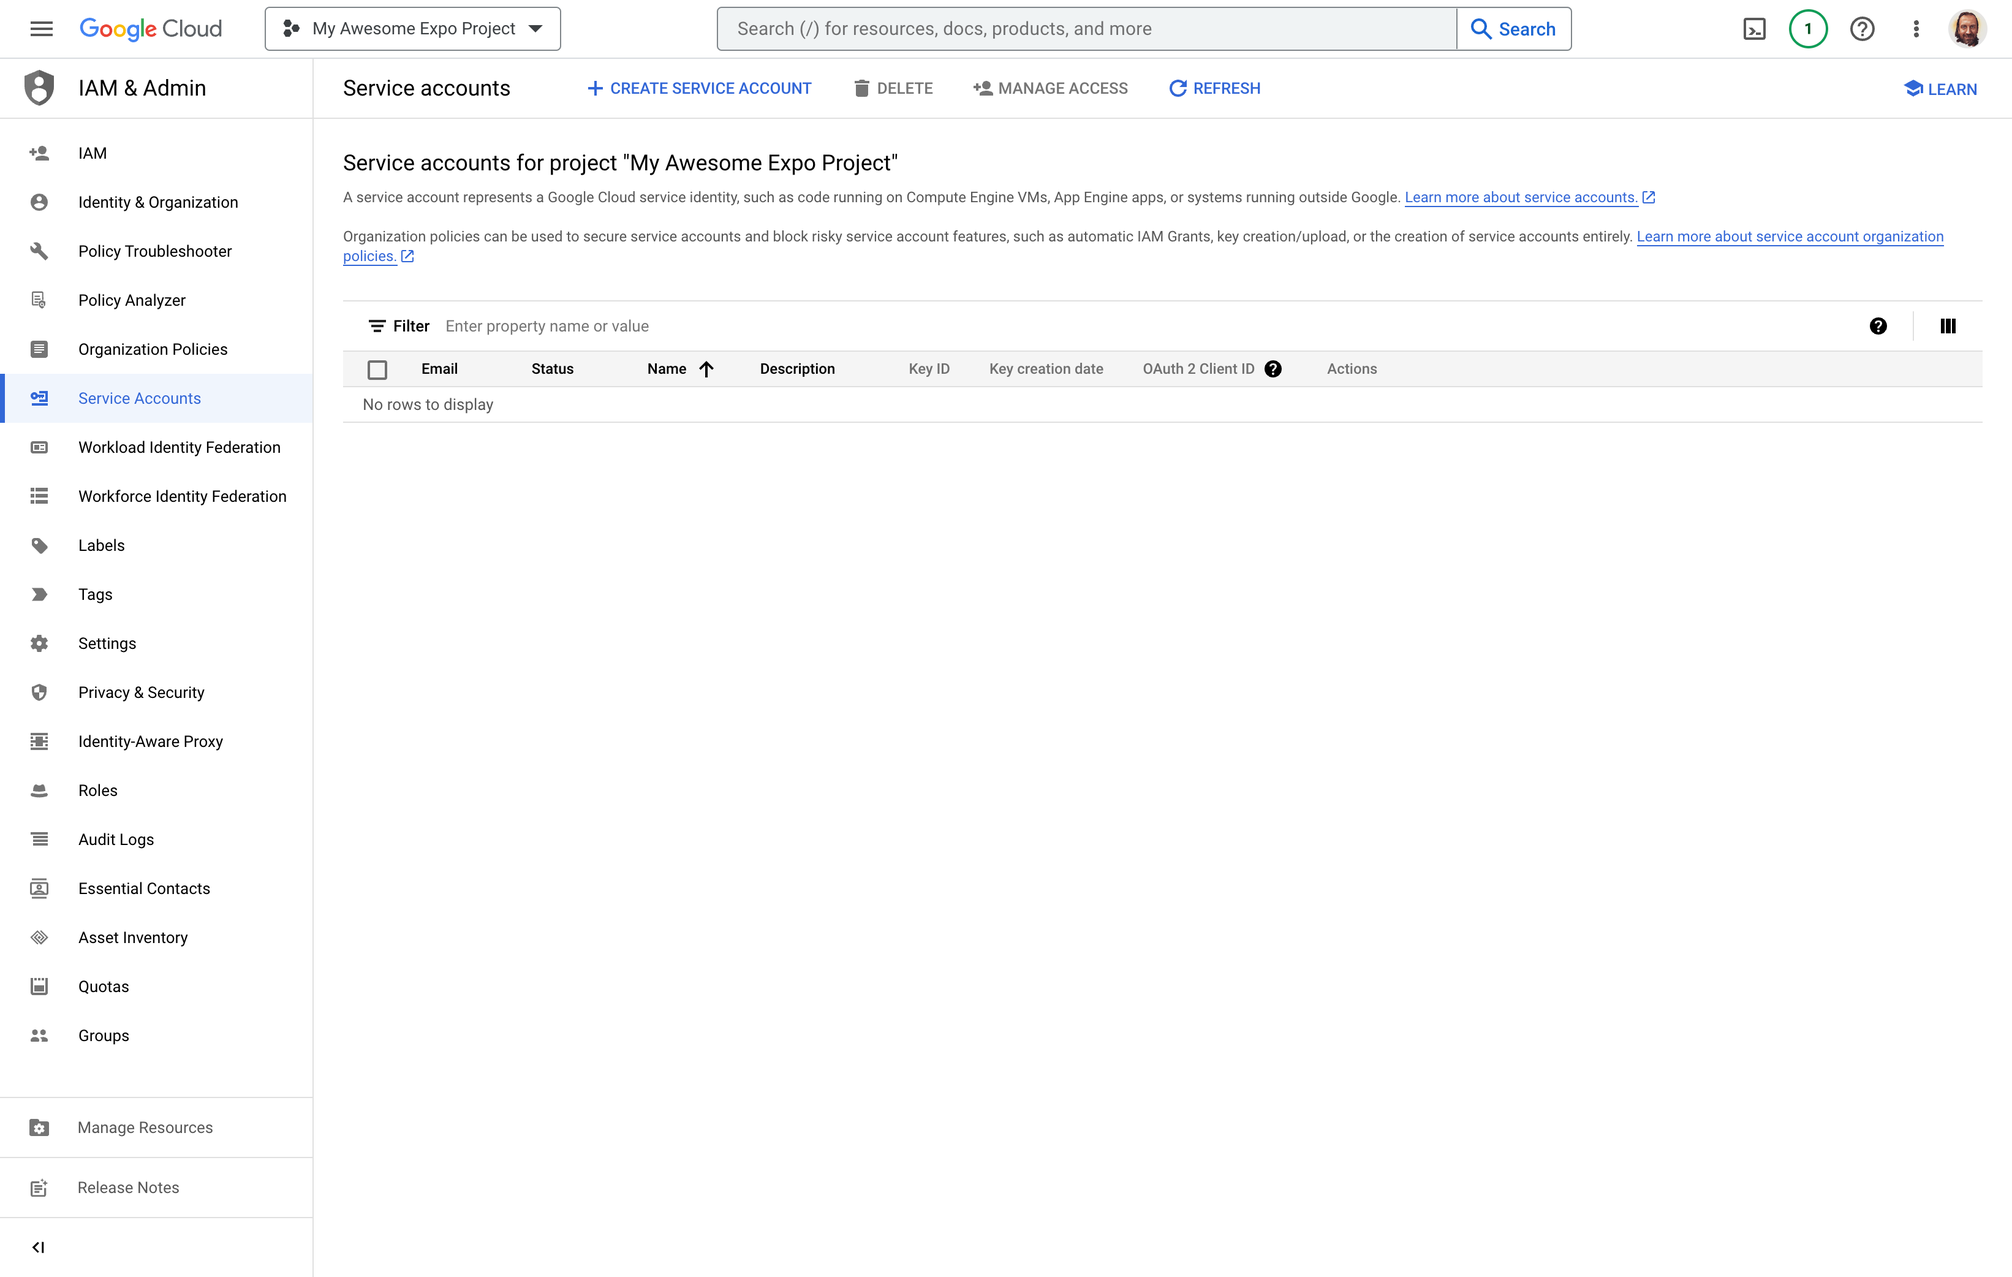
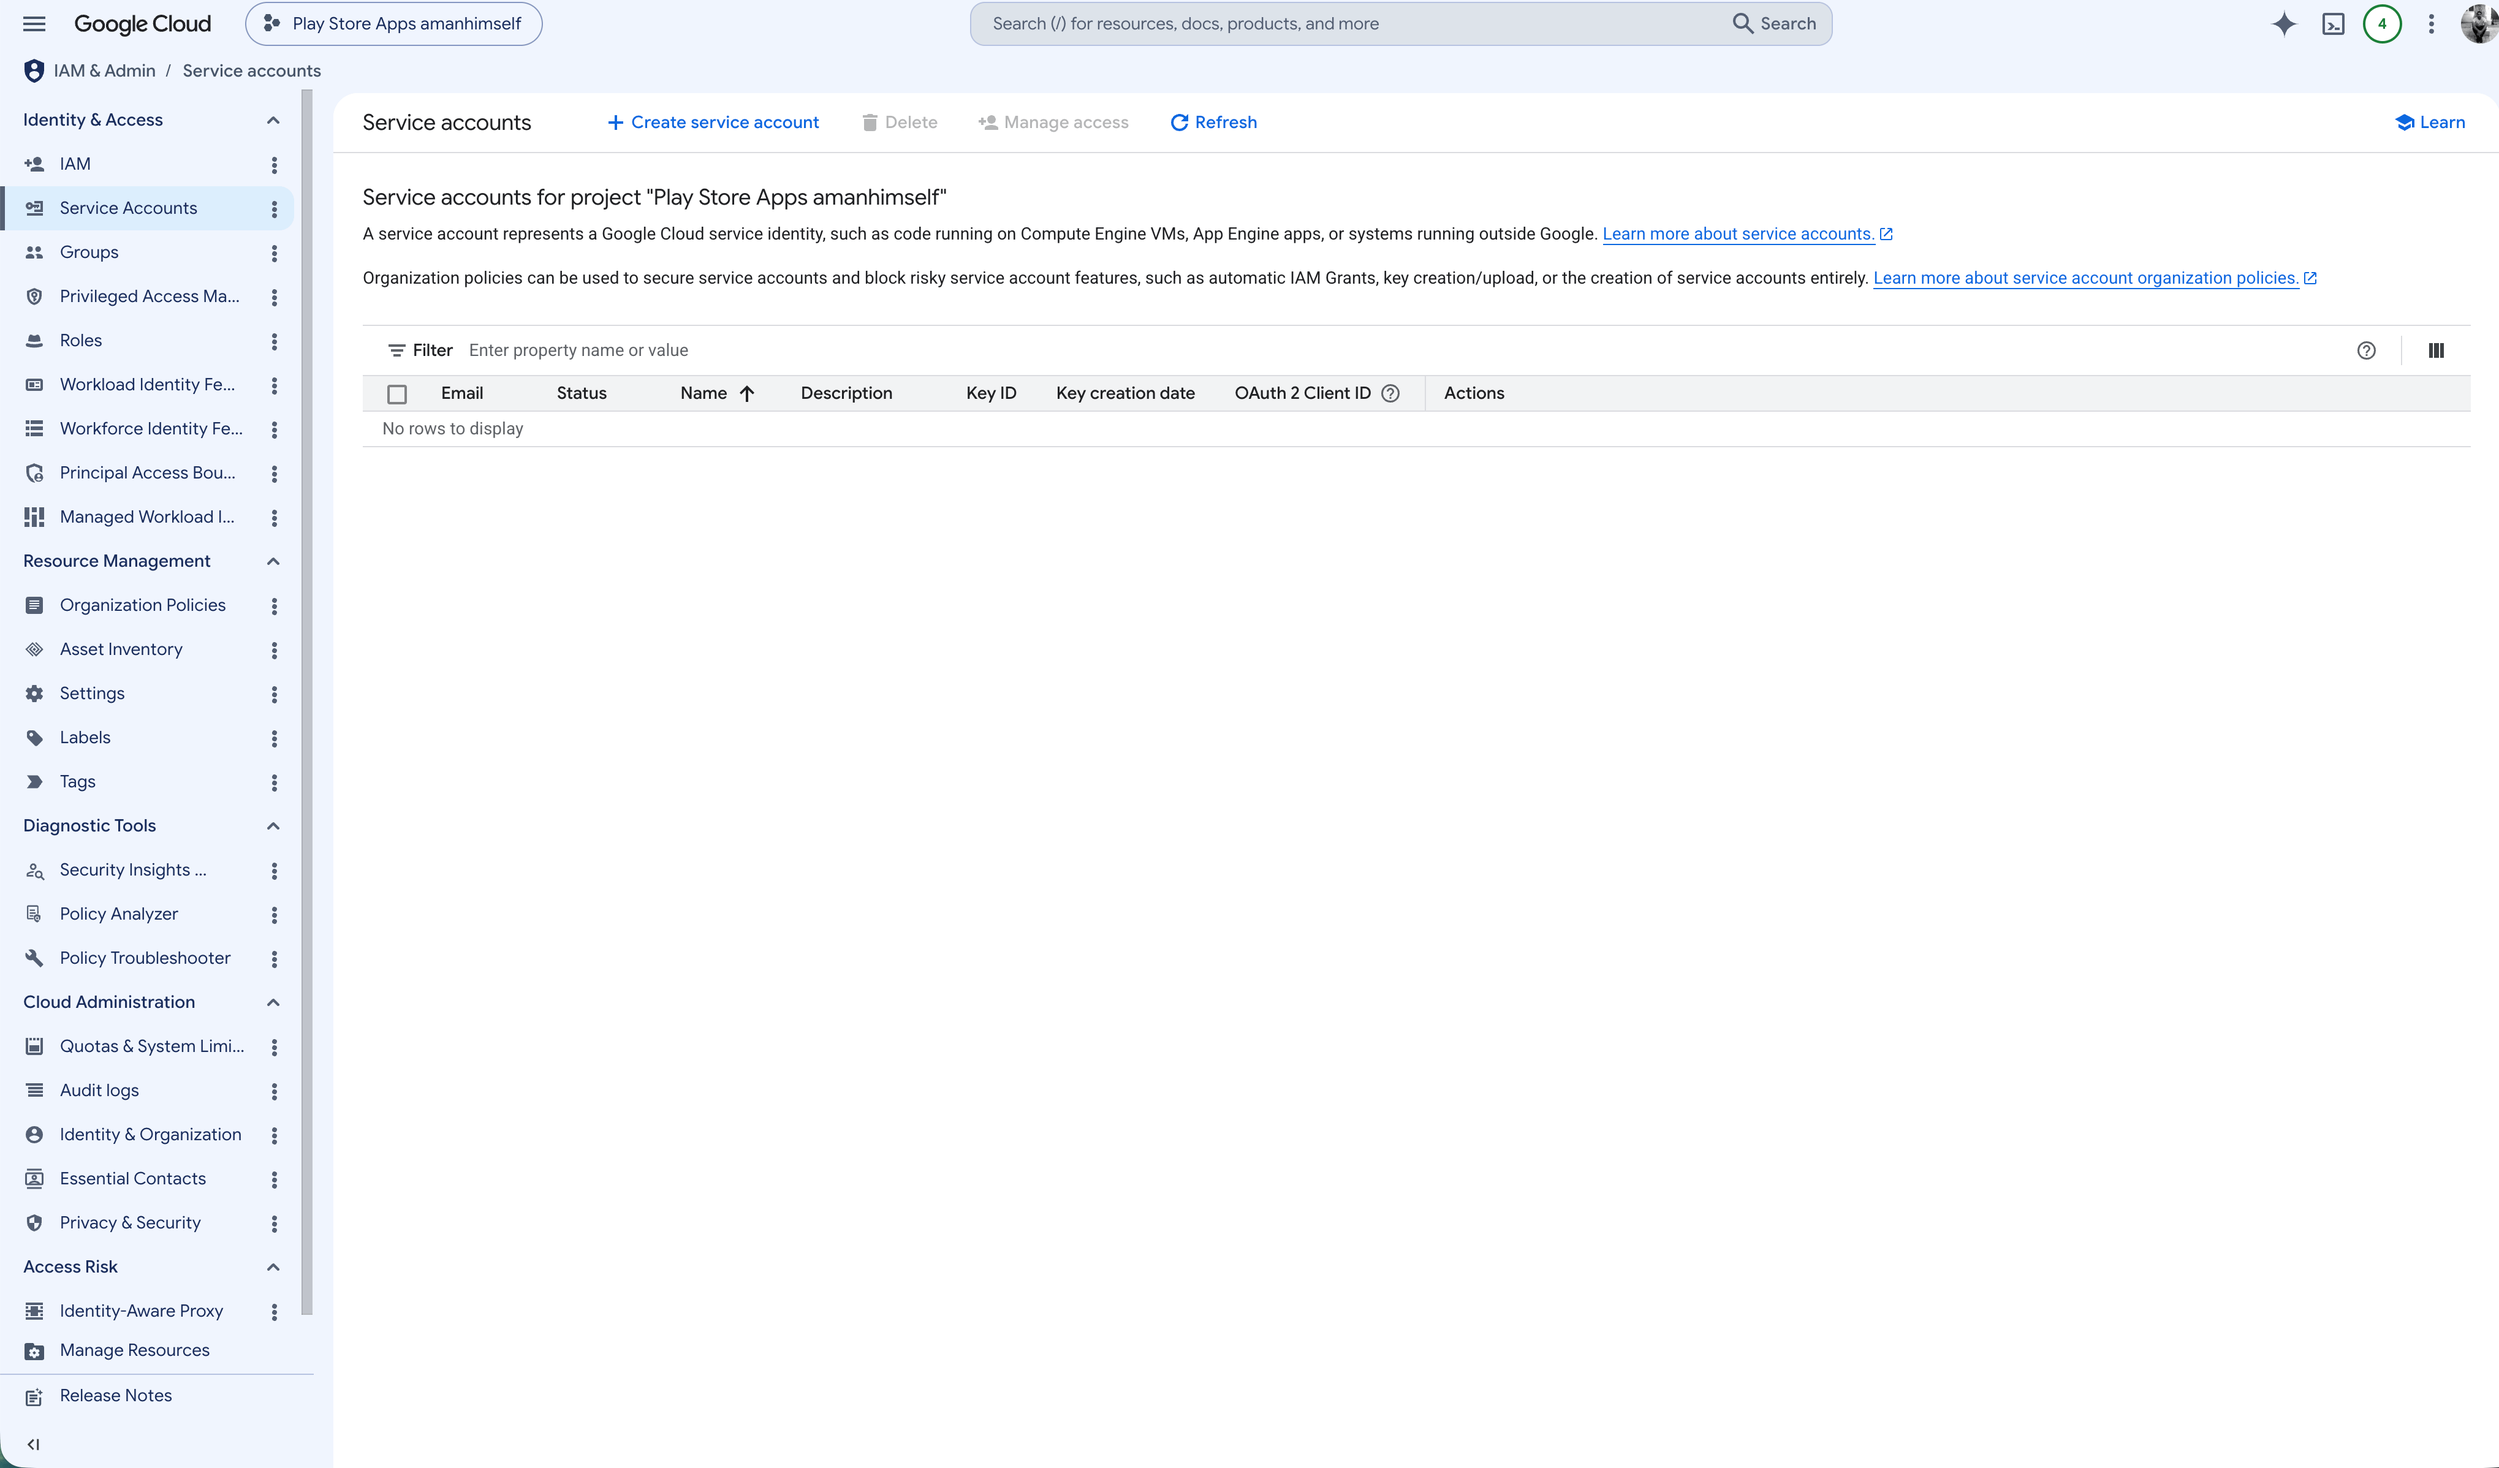
Update Google Service Account key guide and screenshots (#251)
* Update Google Service Account key guide and screenshots

* Update existing section screenshots

* Update existing service account keys

* Fix file name

* Update creating-google-service-account.md

* Update creating-google-service-account.md

* Update 12-copy-service-account-email.png

---------

diff --git a/creating-google-service-account.md b/creating-google-service-account.md
@@ -4,7 +4,7 @@ A Google Service Account Key is a credential in the form of a JSON file that you
 
 **EAS requires you to upload and configure a Google Service Account Key** to submit your Android app to the Google Play Store with `eas submit`.
 
-This guides provides steps to create a new service account and its key or re-use an existing service account to create a new key.
+This guide provides steps to create a new service account and its key or re-use an existing service account to create a new key.
 
 > [!NOTE]
 > From June 2024, all Android notifications must be sent using the FCM v1 protocol. EAS requires a Google Service Account Key to be uploaded and configured for sending Android push notifications via `https://exp.host/--/api/v2/push/send` using the FCM v1 protocol. You can configure separate Google Service Account Keys for Play Store Submissions and [sending Android Push notifications with FCM v1 protocol](https://docs.expo.dev/push-notifications/fcm-credentials/) or you can upload a single Google Service Account Key and use it for both use cases (provided that the correct authorizations are in place for that Service Account in Google Cloud Console).
@@ -22,11 +22,12 @@ To setup a Google Service Account Key for Play Store Submissions via `eas submit
 
 [<img src="./assets/creating-google-service-account/01-new-google-cloud-project.png" width="800" />](./assets/creating-google-service-account/01-new-google-cloud-project.png)
 
-2. Open [**Service Accounts**](https://console.cloud.google.com/iam-admin/serviceaccounts) in the Google Cloud Console and click **Create Service Account**.
+2. Open [**Service Accounts**](https://console.cloud.google.com/iam-admin/serviceaccounts) in the Google Cloud Console. You can also find this page from the navigation menu: **IAM & Admin** > **Service Accounts**. Then, click **Create Service Account**.
 
+[<img src="./assets/creating-google-service-account/17-navigate-service-accounts.png" width="800" />](./assets/creating-google-service-account/17-navigate-service-accounts.png)
 [<img src="./assets/creating-google-service-account/02-service-accounts.png" width="800" />](./assets/creating-google-service-account/02-service-accounts.png)
 
-3. Enter a name for your service account. We recommend a name that will make it easy for you to remember that it is for your Google Play Console account. Optionally, enter the service account ID and description of your choice. Click the **Done** button.
+3. Enter a name for your service account. We recommend a name that will make it easy for you to remember that it is for your Google Play Console account. Optionally, enter the service account ID and description of your choice. Click the **Create and close** button.
 
 [<img src="./assets/creating-google-service-account/03-create-service-account.png" width="800" />](./assets/creating-google-service-account/03-create-service-account.png)
 
@@ -49,13 +50,24 @@ To setup a Google Service Account Key for Play Store Submissions via `eas submit
 
 [<img src="./assets/creating-google-service-account/09-users-permissions.png" width="800" />](./assets/creating-google-service-account/09-users-permissions.png)
 
-8. Enter the email address of the service account you created in _step 4_. On the **App permissions** tab, select your app(s). If you want to apply the permissions to all apps, you can also select the permissions on the **Account permissions** tab instead.
+8. Enter the email address of the service account you created in _step 3_. On the **App permissions** tab, select your app(s). If you want to apply the permissions to all apps, you can also select the permissions on the **Account permissions** tab instead.
 
 [<img src="./assets/creating-google-service-account/10-invite-user.png" width="800" />](./assets/creating-google-service-account/10-invite-user.png)
 
-9. Select the following required permissions to upload and manage your app, and click **Invite user**.
+9. Select the following required permissions to upload and manage your app:
 
-[<img src="./assets/creating-google-service-account/11-set-permissions.png" width="800" />](./assets/creating-google-service-account/11-account-permissions.png)
+   - Under **App access**, select **View app information (read-only)**.
+   - Under **Draft apps**, select **Edit and delete draft apps**.
+   - Under **Releases**, select **Release to production, exclude devices, and use Play App Signing**, **Release apps to testing tracks**, and **Manage testing tracks and edit tester lists**.
+   - Under **Store presence**, select **Manage store presence**.
+
+   Google Play Console selects **View app quality information (read-only)**, **Manage policy declarations**, and **Manage deep links** automatically. They appear checked and greyed out.
+
+   You don't need **Admin (all permissions)**, **View financial data**, **Manage orders and subscriptions**, or **Reply to reviews**.
+
+   After selecting the permissions, click **Invite user**.
+
+[<img src="./assets/creating-google-service-account/11-set-permissions.png" width="800" />](./assets/creating-google-service-account/11-set-permissions.png)
 
 10. Now use `eas submit` to upload your newly created Google Service Account Key to EAS servers and upload your app's release archive to Google Play Store.
 
@@ -69,13 +81,13 @@ If you have already created a Google Service Account, you can create a new **JSO
 
 [<img src="./assets/creating-google-service-account/13-select-existing-service-account.png" width="800" />](./assets/creating-google-service-account/13-select-existing-service-account.png)
 
-3. Click **Keys** > **ADD KEY** > **Create new key**.
+3. Click **Keys** > **Add key** > **Create new key**.
 
 [<img src="./assets/creating-google-service-account/14-create-new-key.png" width="800" />](./assets/creating-google-service-account/14-create-new-key.png)
 
 4. Under **Key type**, make sure **JSON** is selected, and click **Create**.
 
-[<img src="./assets/creating-google-service-account/15-select-json-key-type.png" width="800" />](./assets/creating-google-service-account/15-select-json-key-type.png)
+[<img src="./assets/creating-google-service-account/06-key-type.png" width="800" />](./assets/creating-google-service-account/06-key-type.png)
 
 5. A **.json** file will download on your computer. You can repeat _steps 7 to 10_ from the previous section to use this downloaded key.
 
